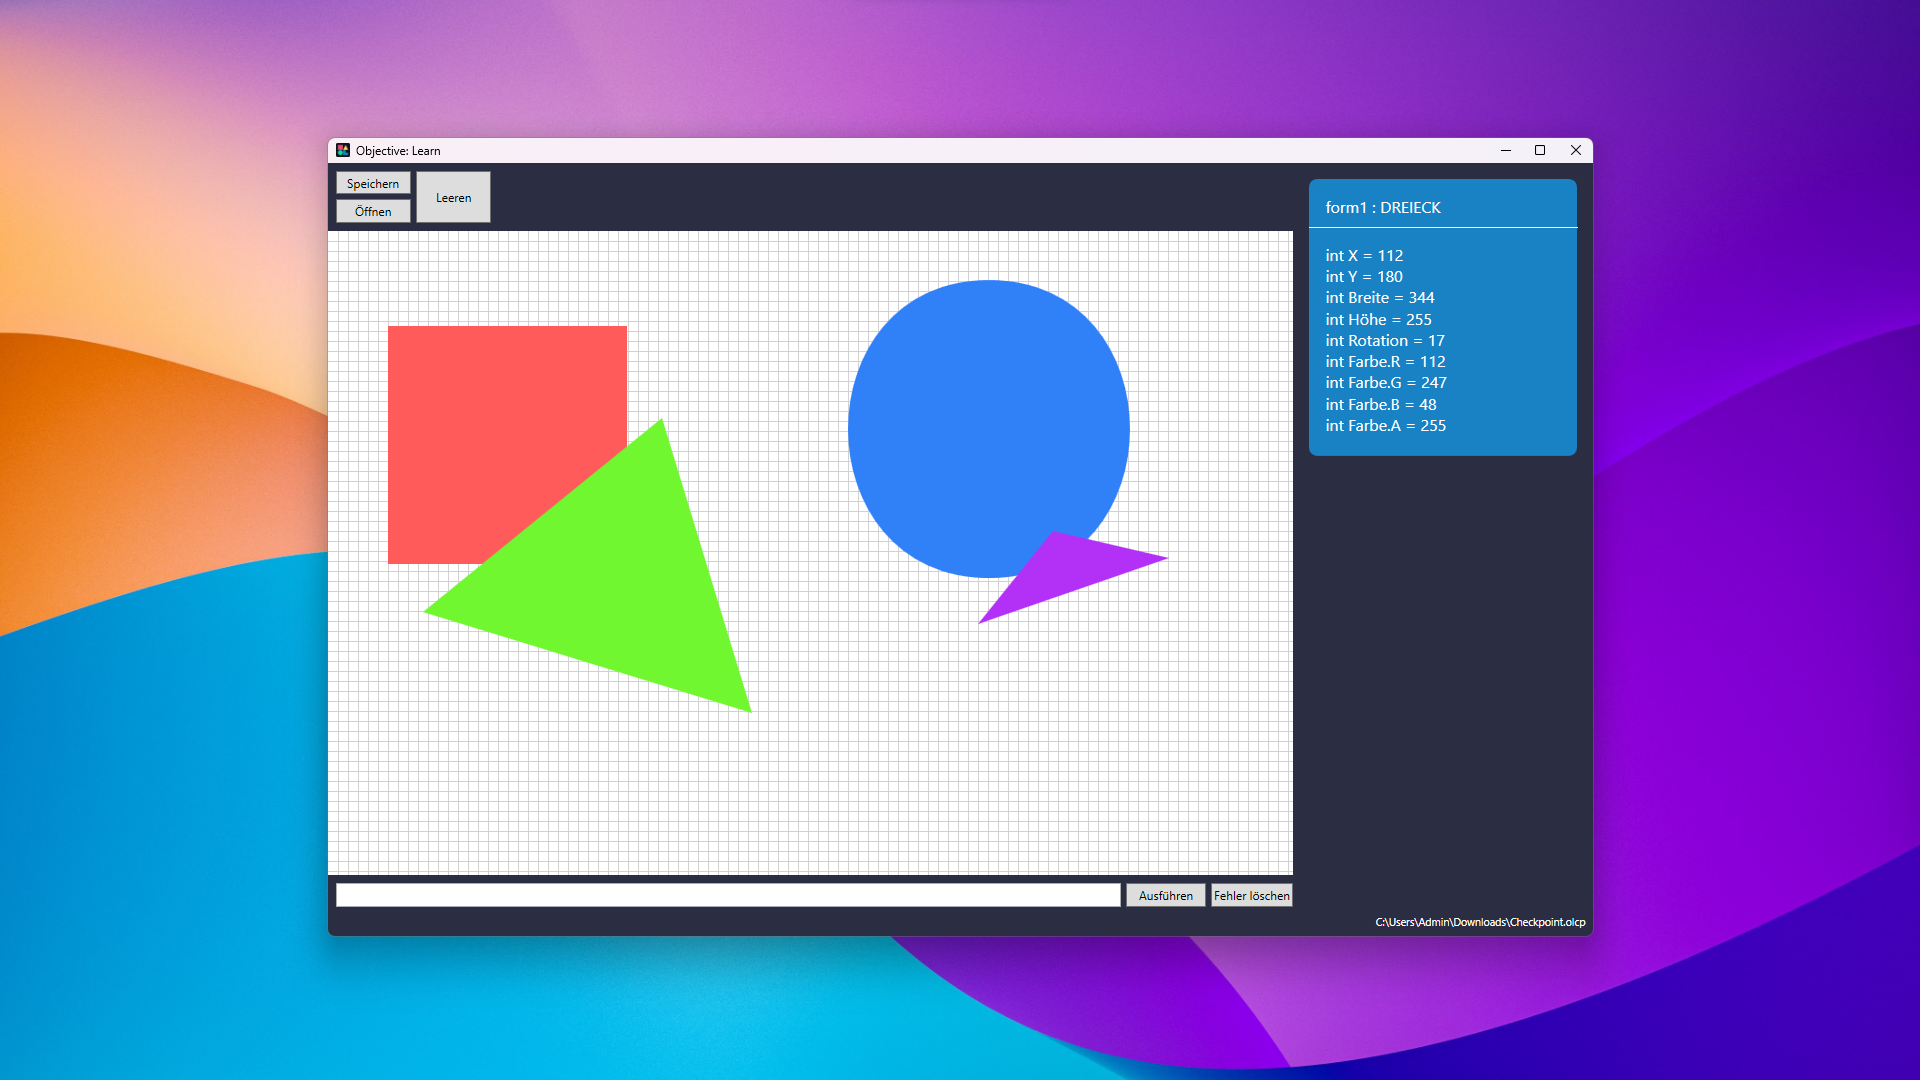
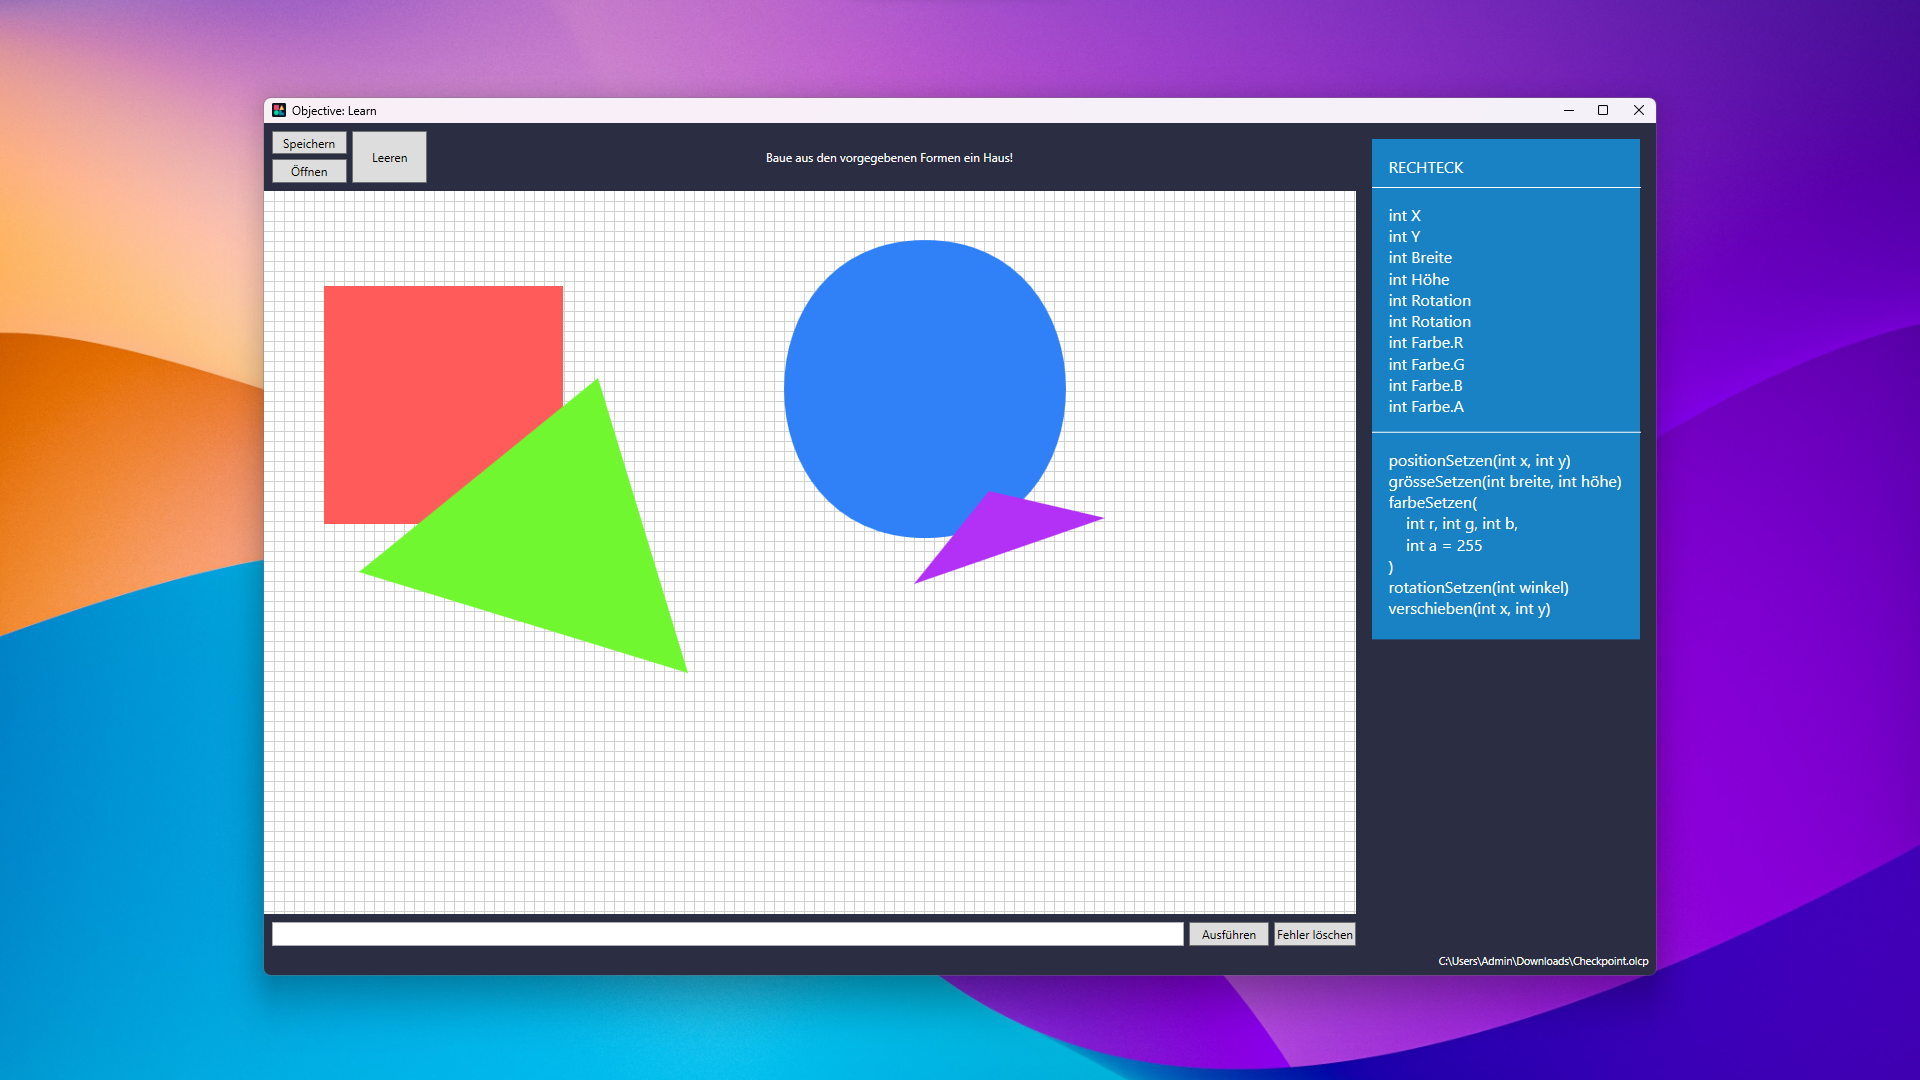
Added Task to Teacher Mode UI Preview and Readme Update

diff --git a/README.md b/README.md
@@ -55,7 +55,7 @@ Jedes Form-Objekt hat folgende Attribute:
 
 ## Lehrermodus
 
-Im Lehrermodus können die Schüler die Werkzeuge icht mehr benutzen, sind also dazu gezwungen, die Befehlszeile zu verwenden. Der Lehrermodus kann aktiviert werden, indem `"TeacherMode"` in der .olcp-Datei auf `true` gesetzt wird.
+Im Lehrermodus können die Schüler die Werkzeuge icht mehr benutzen, sind also dazu gezwungen, die Befehlszeile zu verwenden. Der Lehrermodus kann aktiviert werden, indem `"TeacherMode"` in der .olcp-Datei auf `true` gesetzt wird. Auch kann man den Schülern Aufgaben per `"Task"` übergeben. Dafür einfach zwischen die Anführungszeichen (`[...]"Task":"(hier)"[...]`) die Aufgabe beschreiben.
 
 ## Languages
 Objective: Learn unterstützt momentan Deutsch und US-Englisch. Man kann die Sprache anhand des `language` Attributs in der `appsettings.json` Datei verändern, wobei `de_DE` für Deutsch oder `en_US` für Englisch stehen. Die `appsettings.json` Datei befindet sich im gleichen Verzeichnis wie das eigentliche Programm.
